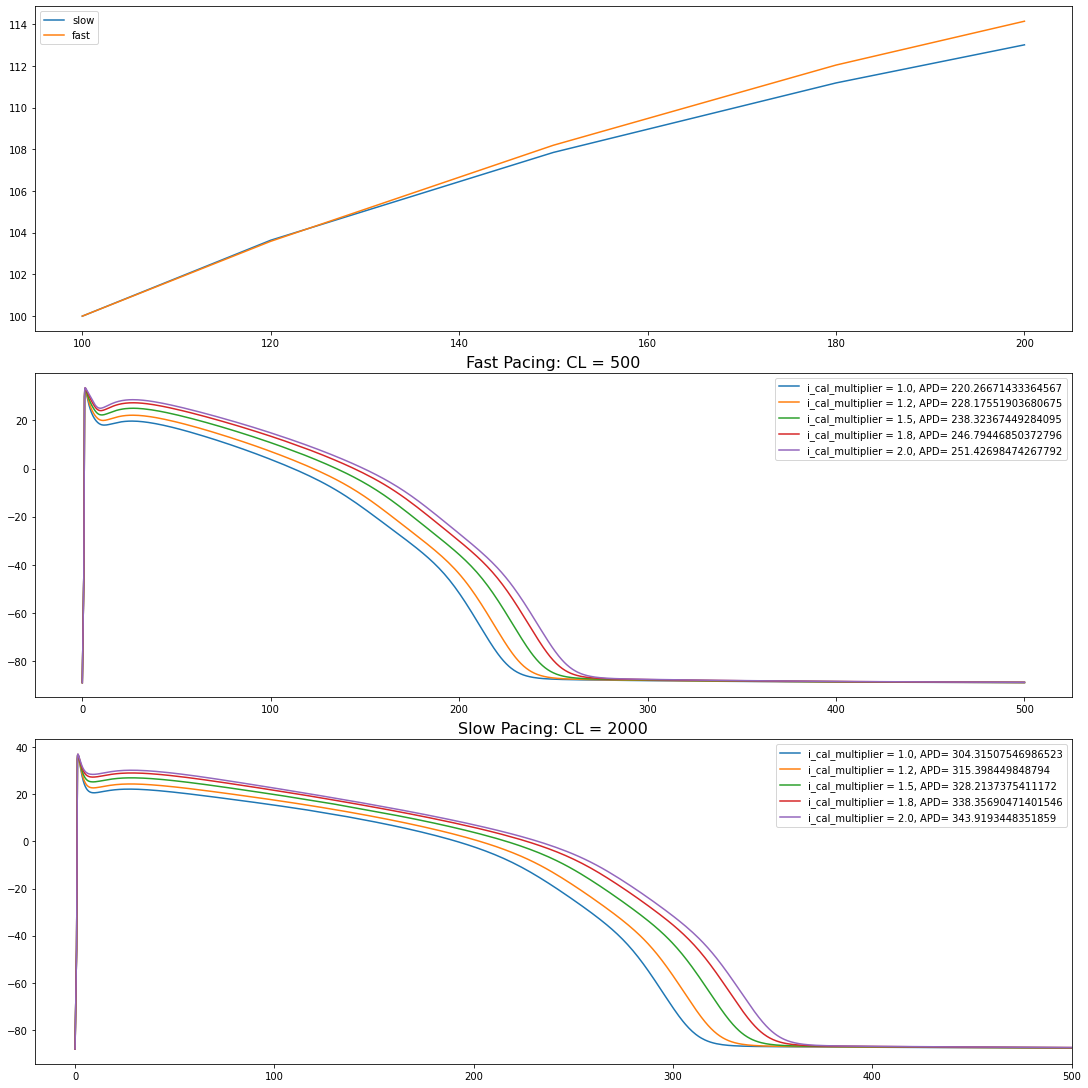
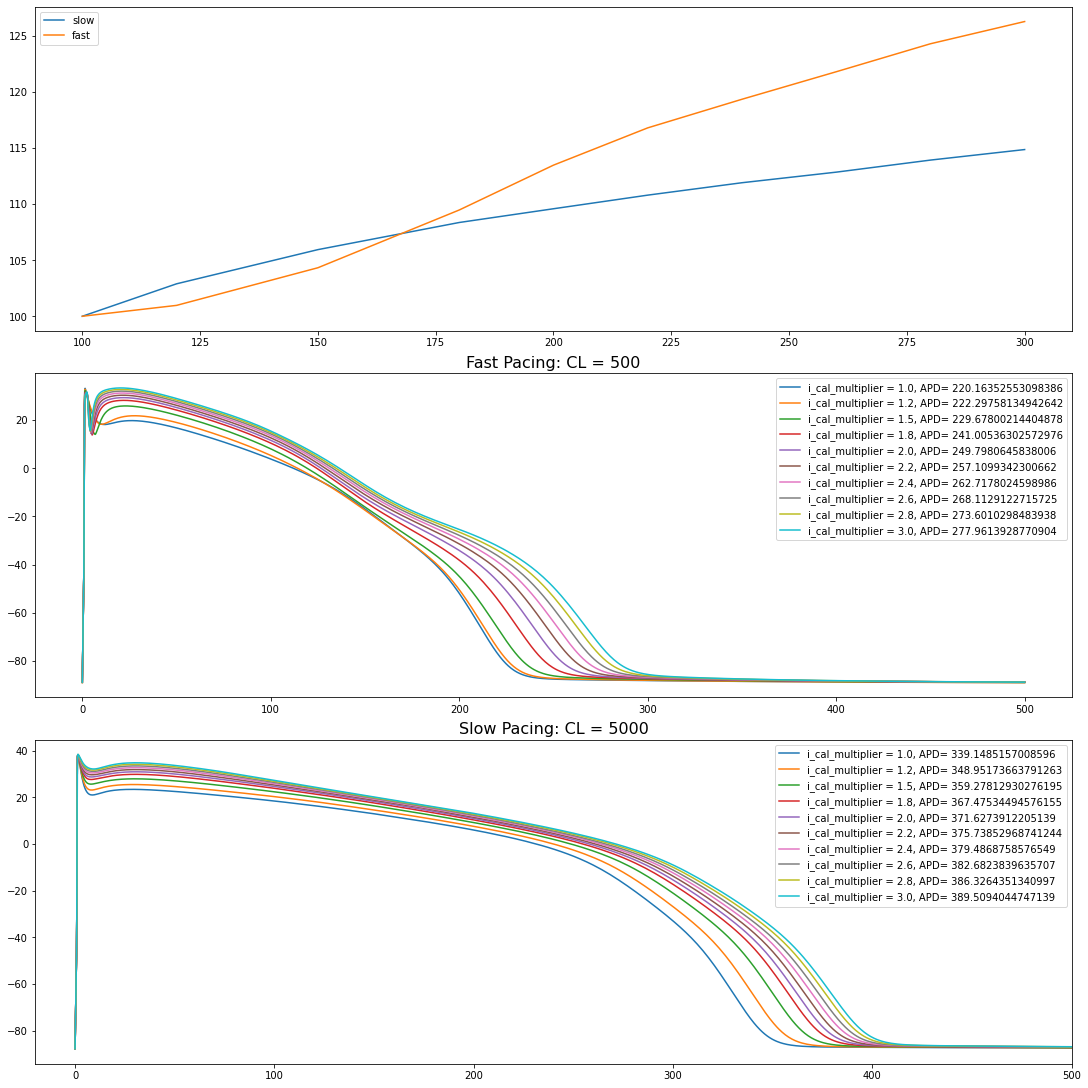
added prepacing at challenge

diff --git a/FRD.py b/FRD.py
@@ -53,15 +53,16 @@ def pacing_protocol(cl, drug_amount, drug_name):
     mod['multipliers']['i_to_multiplier'].set_rhs(1)
 
     proto.schedule(5.3, 0.1, 1, cl, 0)
-    sim = myokit.Simulation(mod, proto)
-    sim.pre(1000 * 1000) #pre-pace for 100 beats 
-    dat_fast = sim.run(cl)
-    IC = sim.state()
+    sim0 = myokit.Simulation(mod, proto)
+    sim0.pre(1000 * 1000) #pre-pace for 100 beats 
+    dat0 = sim0.run(cl)
+    IC = sim0.state()
 
     for i in list(range(0, len(drug_amount))):
         mod.set_state(IC)
         mod['multipliers'][drug_name].set_rhs(drug_amount[i])
         sim = myokit.Simulation(mod, proto)
+        sim.pre(100 * 1000)
         dat = sim.run(cl)
 
         #add data to list to plot 
@@ -98,12 +99,12 @@ def normalize_conduct(conductances):
 print('cell complete')
 
 #%% ANALYSIS - ICaL
-slow_cl = 2000
+slow_cl = 5000
 fast_cl = 500
 normal_cl = 1000
 
 ical = 'i_cal_pca_multiplier'
-ical_amount = [1.0, 1.2, 1.5, 1.8, 2.0]
+ical_amount = [1.0, 1.2, 1.5, 1.8, 2.0, 2.2, 2.4, 2.6, 2.8, 3.0]
 APD_ical_fast, ical_t_data_fast, ical_v_data_fast = pacing_protocol(fast_cl, ical_amount, ical)
 APD_ical_slow, ical_t_data_slow, ical_v_data_slow = pacing_protocol(slow_cl, ical_amount, ical)
 
@@ -124,7 +125,7 @@ for i in list(range(0, len(ical_amount))):
 
     lab_slow = "i_cal_multiplier = {}, APD= {}".format(ical_amount[i], APD_ical_slow[i][0])
     axs[2].plot(ical_t_data_slow[i], ical_v_data_slow[i], label = lab_slow)
-    axs[2].set_title('Slow Pacing: CL = 2000', fontsize=16)
+    axs[2].set_title('Slow Pacing: CL = 5000', fontsize=16)
     axs[2].legend()
 
 plt.xlim([-20, 500])
@@ -154,7 +155,7 @@ for i in list(range(0, len(iks_amount))):
 
     lab_slow = "i_ks_multiplier = {}, APD= {}".format(iks_amount[i], APD_iks_slow[i][0])
     axs[2].plot(iks_t_data_slow[i], iks_v_data_slow[i], label = lab_slow)
-    axs[2].set_title('Slow Pacing: CL = 2000', fontsize=16)
+    axs[2].set_title('Slow Pacing: CL = 5000', fontsize=16)
     axs[2].legend()
 
 plt.xlim([-20, 500])
@@ -184,7 +185,7 @@ for i in list(range(0, len(ikr_amount))):
 
     lab_slow = "i_kr_multiplier = {}, APD= {}".format(ikr_amount[i], APD_ikr_slow[i][0])
     axs[2].plot(ikr_t_data_slow[i], ikr_v_data_slow[i], label = lab_slow)
-    axs[2].set_title('Slow Pacing: CL = 2000', fontsize=16)
+    axs[2].set_title('Slow Pacing: CL = 5000', fontsize=16)
     axs[2].legend()
 
 plt.xlim([-20, 800])

diff --git a/test.py b/test.py
@@ -14,7 +14,7 @@ sim = myokit.Simulation(mod, proto)
 sim.pre(1000 * 1000) #pre-pace for 1000 beats 
 dat = sim.run(5000)
 plt.plot(dat['engine.time'],dat['membrane.v'])
-IC = mod.state()
+IC = sim.state()
 
 ## EAD CHALLENGE: ICaL = 8x using set_state 
 mod.set_state(IC)
@@ -23,7 +23,7 @@ mod['multipliers']['i_cal_pca_multiplier'].set_rhs(8)
 sim1 = myokit.Simulation(mod, proto) 
 dat1 = sim1.run(5000)
 
-plt.plot(dat1['engine.time'],dat1['membrane.v'])
+plt.plot(dat1['engine.time'],dat1['membrane.v'], label="1")
 
 ## EAD CHALLENGE: ICaL = 8x without using set state
 mod2, proto2, x2 = myokit.load('./tor_ord_endo.mmt')
@@ -32,14 +32,19 @@ proto2.schedule(5.3, 0.1, 1, 1000, 0)
 sim2 = myokit.Simulation(mod2, proto2)
 sim2.pre(1000 * 1000) #pre-pace for 1000 beats 
 dat2 = sim2.run(5000)
-plt.plot(dat2['engine.time'],dat2['membrane.v'])
+plt.plot(dat2['engine.time'],dat2['membrane.v'], label="2")
 
+#%%
 ## EAD CHALLENGE: ICaL = 8x using set state and prepacing
+
 mod.set_state(IC)
 mod['multipliers']['i_cal_pca_multiplier'].set_rhs(8)
 #proto.schedule(5.3, 0.1, 1, 1000, 0)
 sim3 = myokit.Simulation(mod, proto) 
-sim3.pre(1000 * 1000) #pre-pace for 1000 beats
-dat3 = sim3.run(5000)
+sim3.pre(100 * 1000) #pre-pace for 1000 beats
+dat3 = sim3.run(1000)
 
-plt.plot(dat3['engine.time'],dat3['membrane.v'])
+plt.plot(dat3['engine.time'],dat3['membrane.v'], label="3")
+plt.legend()
+
+# %%
